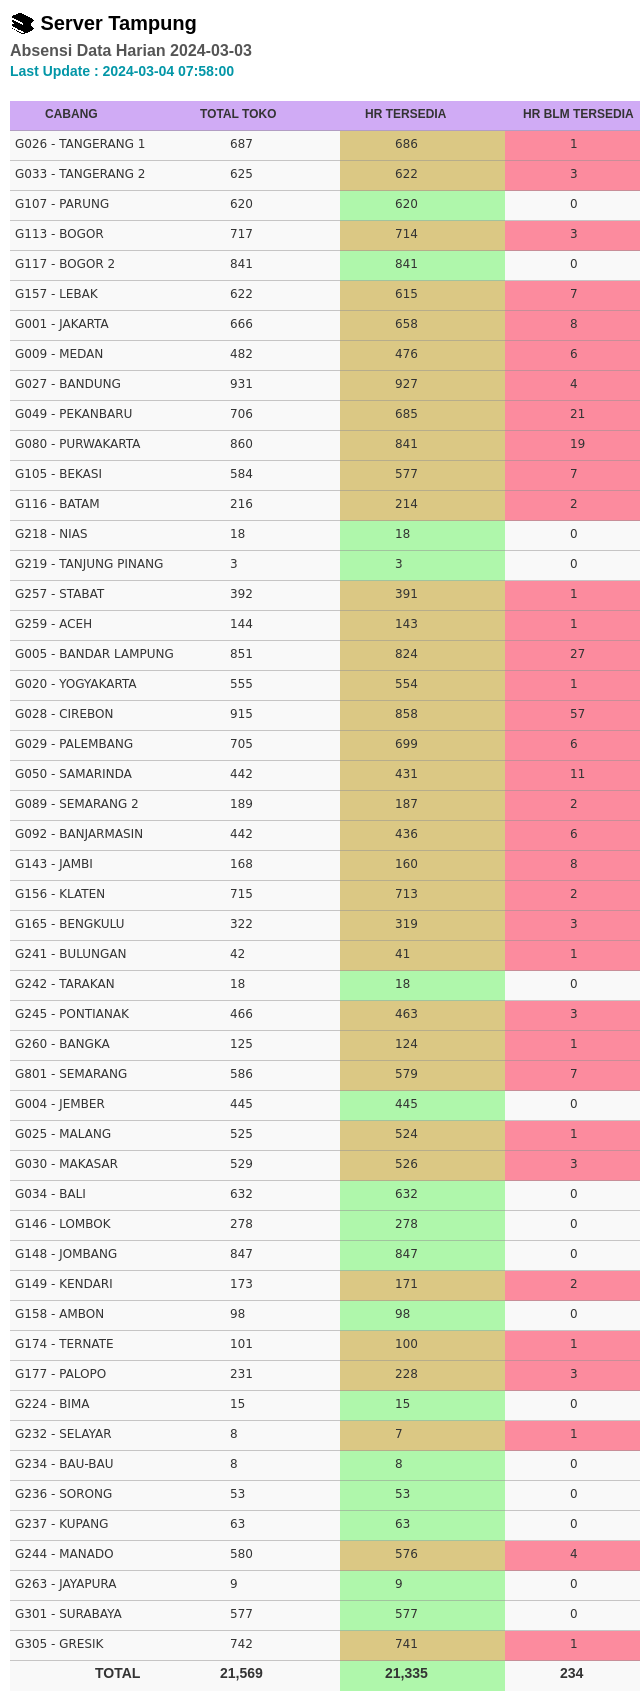
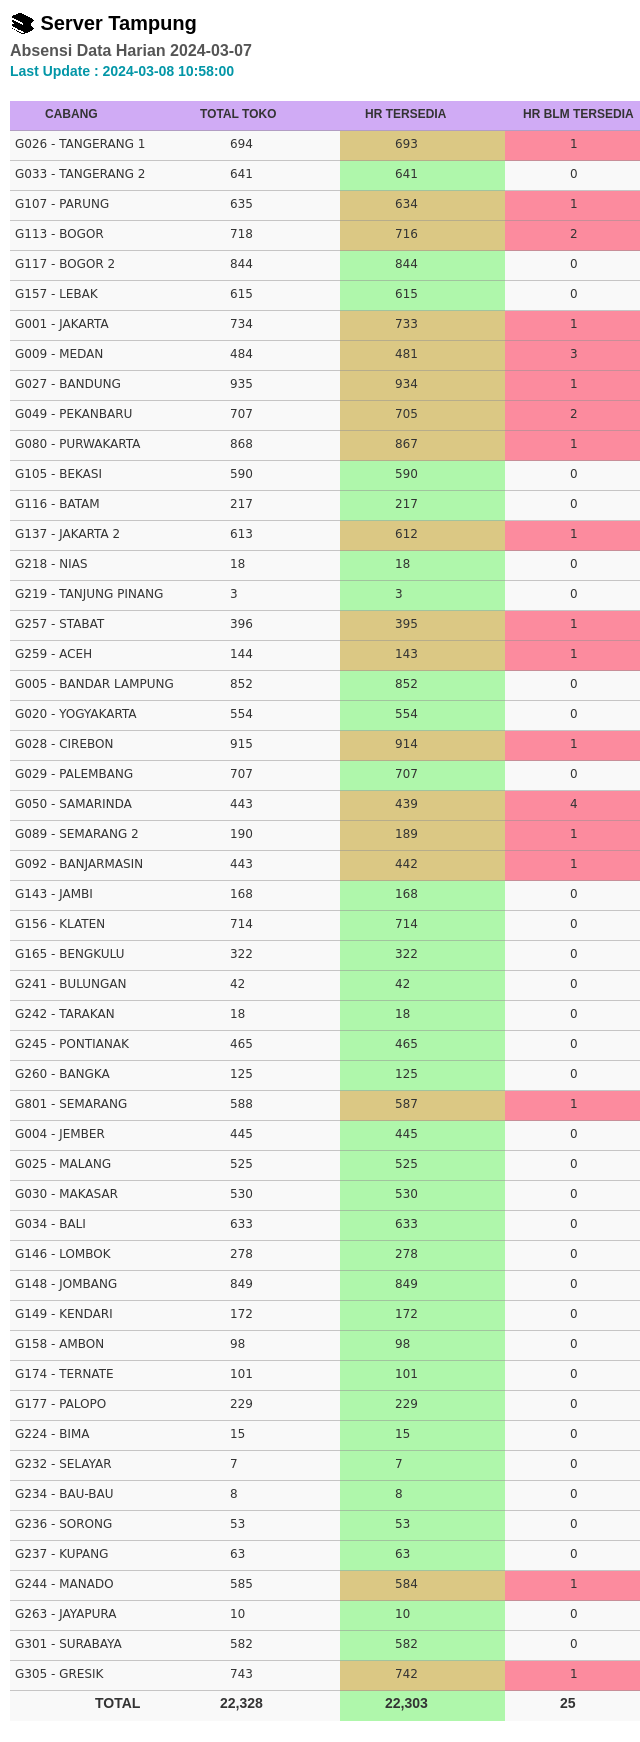
update

diff --git a/models/model.js b/models/model.js
@@ -837,34 +837,34 @@ const HarianTokoLiburCabang = async (kdcab,tanggal) => {
         order by kdam,kdas,toko;`
         const belum = await conn_ho.query(queryx)
         
-        // const detail = belum.map( (r) =>{
-        //     return `'${r.toko}'`
-        // }).toString()
+        return belum
 
-        // const a = belum.map(v => Object.assign({}, v));
+    } catch (e) {  
+        console.log(e)
+        return "Gagal"
+    }
+}
 
-        // const keterquery = `select toko as kdtk,SUBSTRING_INDEX(SUBSTRING_INDEX(\`log\`, '|', 1), '.',-1) as keterangan from temp_cek_clos_toko where tanggal='${tanggal}' and toko in(${detail})`
+
+const HarianTokoLiburCabang2 = async (kdcab,tanggal,filter) => { 
+    try {
+        const queryx = `select 
+        a.toko,a.nama,a.kdam,a.kdas, '-' as keterangan
+        from
+        m_toko_libur_acuan a
+        left join
+        posrealtime_base.toko_extended b on concat(a.toko,a.kdcab) = concat(b.kodetoko,b.kodegudang)
+        left join
+        m_abs_harian_file c on a.toko = c.kdtk and a.tanggal = c.tanggal_harian
+        where
+        a.recid=''
+        and a.kdcab='${kdcab}'
+        and a.tanggal = '${tanggal}'
+        and c.nama_file is null
+        ${filter}
+        order by kdam,kdas,toko;`
+        const belum = await conn_ho.query(queryx)
         
-        // const keterangan  = await conn_any.zconn("192.168.131.50","edp1","abcd@1234","management_co", 3306, { sql: keterquery })
-        
-        // if(keterangan != "error"){ 
-            
-        //     const b = keterangan.map(v => Object.assign({}, v));
-    
-        //     const mergeById = (a1, a2) =>
-        //         a1.map(itm => (
-        //                 {
-        //                     ...itm,
-        //                     ...a2.find((item) => (item.kdtk === itm.toko) && item)
-                            
-        //                 }
-        //             )
-        //         )
-        
-        //     detailbelum = mergeById(a, b)  
-        // }else{
-        //     detailbelum = a
-        // }
         return belum
 
     } catch (e) {  
@@ -898,6 +898,7 @@ const cekHarianToko = async (kdtk,tanggal) => {
 
 const HarianTokoLiburCabangAm = async (kdcab,yesterday) => { 
     try {
+
         const queryx = `
         select
         am,total,belum,sudah,round((belum/total) * 100,2) as persen_belum,round((sudah/total) * 100,2) as persen_sudah
@@ -918,6 +919,7 @@ const HarianTokoLiburCabangAm = async (kdcab,yesterday) => {
         and a.tanggal = '${yesterday}'
         GROUP BY am) a order by belum desc
         ;`
+
         const rows = await conn_ho.query(queryx)
         
         return rows
@@ -927,26 +929,96 @@ const HarianTokoLiburCabangAm = async (kdcab,yesterday) => {
     }
 }
 
+
+const HarianTokoLiburCabangAm2 = async (kdcab,yesterday,filter) => { 
+    try {
+
+        const queryx = `
+        select
+        am,total,belum,sudah,round((belum/total) * 100,2) as persen_belum,round((sudah/total) * 100,2) as persen_sudah
+        from (
+            select
+                if(left(substr(b.amgr_name,12,10),4) ='cant','Vacant', substr(b.amgr_name,12,10)) as am,COUNT(*) AS total,
+                sum(if(nama_file is null,1,0)) as belum,
+                sum(if(nama_file is not null,1,0)) as sudah
+            from
+                m_toko_libur_acuan a
+            left join
+                posrealtime_base.toko_extended b on concat(a.toko,a.kdcab) = concat(b.kodetoko,b.kodegudang)
+            left join
+                m_abs_harian_file c on a.toko = c.kdtk and a.tanggal = c.tanggal_harian
+            where
+                a.recid=''
+                and a.kdcab='${kdcab}'
+                and a.tanggal = '${yesterday}'
+                ${filter}
+            GROUP BY am
+        ) a order by belum desc
+        ;`
+        
+        const rows = await conn_ho.query(queryx)
+        
+        return rows
+
+    } catch (e) { 
+        return "Gagal"
+    }
+}
+
+
 const HarianTokoLiburCabangAmFooter = async (kdcab,yesterday) => { 
     try {
         const queryx = `
         select
         total,belum,sudah,round((belum/total) * 100,2) as persen_belum,round((sudah/total) * 100,2) as persen_sudah
-from(
+        from(
+            select
+                COUNT(*) AS total,
+                sum(if(nama_file is null,1,0)) as belum,
+                sum(if(nama_file is not null,1,0)) as sudah
+            from
+                m_toko_libur_acuan a
+            left join
+                posrealtime_base.toko_extended b on concat(a.toko,a.kdcab) = concat(b.kodetoko,b.kodegudang)
+            left join
+                m_abs_harian_file c on a.toko = c.kdtk and a.tanggal = c.tanggal_harian
+            where
+            a.recid=''
+            and a.tanggal='${yesterday}'
+            and a.kdcab='${kdcab}'
+        ) a
+        ;`
+        const rows = await conn_ho.query(queryx)
+        
+        return rows
+
+    } catch (e) { 
+        return "Gagal"
+    }
+}
+
+const HarianTokoLiburCabangAmFooter2 = async (kdcab,yesterday,filter) => { 
+    try {
+        const queryx = `
         select
-        COUNT(*) AS total,
-        sum(if(nama_file is null,1,0)) as belum,
-        sum(if(nama_file is not null,1,0)) as sudah
-        from
-        m_toko_libur_acuan a
-        left join
-        posrealtime_base.toko_extended b on concat(a.toko,a.kdcab) = concat(b.kodetoko,b.kodegudang)
-        left join
-        m_abs_harian_file c on a.toko = c.kdtk and a.tanggal = c.tanggal_harian
-        where
-        a.recid=''
-        and a.tanggal='${yesterday}'
-        and a.kdcab='${kdcab}') a
+        total,belum,sudah,round((belum/total) * 100,2) as persen_belum,round((sudah/total) * 100,2) as persen_sudah
+        from(
+            select
+                COUNT(*) AS total,
+                sum(if(nama_file is null,1,0)) as belum,
+                sum(if(nama_file is not null,1,0)) as sudah
+            from
+                m_toko_libur_acuan a
+            left join
+                posrealtime_base.toko_extended b on concat(a.toko,a.kdcab) = concat(b.kodetoko,b.kodegudang)
+            left join
+                m_abs_harian_file c on a.toko = c.kdtk and a.tanggal = c.tanggal_harian
+            where
+            a.recid=''
+            and a.tanggal='${yesterday}'
+            and a.kdcab='${kdcab}'
+            ${filter}
+        ) a
         ;`
         const rows = await conn_ho.query(queryx)
         
@@ -1150,5 +1222,7 @@ module.exports = {
     HarianTokoLibur,HarianTokoLiburCabang,DataPbHoldEDP,AkunCabang,DataPbHoldCabang,
     TeruskanPB,HoldPB,cekCabang,AkunCabangOto,updateDataOto,
     HarianTokoLiburCabangAm,HarianTokoLiburCabangAmFooter,updRecid2,HitungRekapHold,getBM,
-    getWT,dataTokoWT,insertHarianJam9, getSB,cekHarianToko,absenPbbh,ServerPbroReg4,coResolved
+    getWT,dataTokoWT,insertHarianJam9, getSB,cekHarianToko,absenPbbh,ServerPbroReg4,coResolved,
+    HarianTokoLiburCabangAm2,
+    HarianTokoLiburCabangAmFooter2,HarianTokoLiburCabang2
 }

diff --git a/controllers/controller.js b/controllers/controller.js
@@ -1203,7 +1203,7 @@ const HarianTokoLibur = async () => {
             masuk += parseInt(r.sudah); 
             belum += parseInt(r.belum); 
         })
-        const header = `📚 *Server Tampung*\n*Absensi Data Harian Toko Libur ${today}*\n\n`
+        const header = `📚 *Server Tampung*\n*Absensi Data Harian ${today}\nToko Libur*\n\n`
         const header2 = `*Kdcab | Toko Aktif | Sudah Masuk | Belum Masuk | %* \n`
         const footer = `*Total | ${toko_aktif} | ${masuk} | ${belum} | ${Number(((belum)/toko_aktif * 100).toFixed(2))}%*`
 
@@ -1249,19 +1249,11 @@ const HarianTokoLiburCabang = async (kdcab) => {
             no_am++;
         })
 
-        const data = await Models.HarianTokoLiburCabang(kdcab,today)
-        // for (let i = 0; i < data.length; i++) {
-        //     if (i > 0 && data[i].kdam !== data[i-1].kdam) {
-        //         tampil_data.push("\n*AM | AS | Nama Toko*");
-        //     } else {
-        //         tampil_data.push(`${data[i].kdam} | ${data[i].kdas} | _${data[i].toko}-${data[i].nama}_`)
-        //     }
-        //   }
-        // console.log(newArray)
+        const data = await Models.HarianTokoLiburCabang(kdcab,today) 
         data.map( async (r)=>{
             tampil_data.push(`${r.kdam} | ${r.kdas} | ${r.toko}-${r.nama}`)
         })
-        const header = `📚 *Server Tampung*\n*Absensi Data Harian Toko Libur ${today}*\nCabang: ${kdcab.toUpperCase()}\n\n`
+        const header = `📚 *Server Tampung*\n*Absensi Data Harian ${today}\nToko Libur*\nCabang: ${kdcab.toUpperCase()}\n\n`
         const header_am = `*No | AM | Total | Sudah Masuk | % | Belum Masuk| %* \n`
         const header2 = `_Detail Toko Data Harian Belum Terkirim ke Server Tampung_\n\n*AM | AS | Nama Toko*\n`
 
@@ -1274,6 +1266,65 @@ const HarianTokoLiburCabang = async (kdcab) => {
     }
 }
 
+const HarianTokoLiburCabang2 = async (kdcab) => {
+    try {
+       
+        var today = ""
+        var now = new Date();
+        const jam = dayjs(now).format("HH")
+        const sekarang = dayjs(now).format("YY-MM-DD HH:mm")
+        if(jam < 14 ){
+            var date =  new Date()
+            var yesterday = date.setDate(date.getDate()-1);
+            today = dayjs(yesterday).format("YYYY-MM-DD")
+        }else{
+            var yesterday = now
+            today = dayjs(now).format("YYYY-MM-DD")
+        }
+
+        var no = 1;
+        var no_am = 1; 
+        var tampil_data = []
+        var tampil_am = []
+        var tampil_am_footer = []
+        
+        let filter = "" 
+        if(parseInt(dayjs().format("H")) === "20"){
+            filter = `and jam = '21:00'`
+        }else if(parseInt(dayjs().format("H")) === "21"){
+            filter = `and jam in('21:00','22:00')`
+        }else{
+            filter =""
+        }
+
+        const data_am = await Models.HarianTokoLiburCabangAm2(kdcab,today,filter)
+        data_am.map( async (r_am)=>{
+            tampil_am.push(`${no_am} | ${r_am.am} | ${r_am.total} | ${r_am.sudah} | ${r_am.persen_sudah}% | ${r_am.belum}| ${r_am.persen_belum}% `)
+            no_am++;
+        })
+
+        const data_am_footer = await Models.HarianTokoLiburCabangAmFooter2(kdcab,today,filter)
+        data_am_footer.map( async (r_am_footer)=>{
+            tampil_am_footer.push(`  *Grand Total | ${r_am_footer.total} | ${r_am_footer.sudah} | ${r_am_footer.persen_sudah}% | ${r_am_footer.belum}| ${r_am_footer.persen_belum}%*`)
+            no_am++;
+        })
+
+        const data = await Models.HarianTokoLiburCabang2(kdcab,today,filter) 
+        data.map( async (r)=>{
+            tampil_data.push(`${r.kdam} | ${r.kdas} | ${r.toko}-${r.nama}`)
+        })
+        const header = `📚 *Server Tampung*\n*Absensi Data Harian ${today}\nToko Libur*\nCabang: ${kdcab.toUpperCase()}\n\n`
+        const header_am = `*No | AM | Total | Sudah Masuk | % | Belum Masuk| %* \n`
+        const header2 = `_Detail Toko Data Harian Belum Terkirim ke Server Tampung_\n\n*AM | AS | Nama Toko*\n`
+
+        const respons = `${header}${header_am}${tampil_am.join("\n")}\n${tampil_am_footer}\n\n${header2}${tampil_data.join("\n")}\n\n_Last Update: ${sekarang}_`
+        return respons
+
+    } catch (e) {
+        
+        return "🛠 Server sedang dalam perbaikan, Mohon hubungi Administrator Anda!!" 
+    }
+}
 
  
 const cekHarianToko = async (kdtk) => {
@@ -1505,6 +1556,6 @@ module.exports = {
     cekCabang,AkunCabangOto,
     updateDataOto,updRecid2,HitungRekapHold,getBM,
     DownloadWT,dataTokoWT,DataHarianLebih9,DownloadSB,absenPbbh,HarianTampung_new_allcabangImage,
-    ServerPbroReg4
+    ServerPbroReg4,HarianTokoLiburCabang2
   }
  

diff --git a/server.js b/server.js
@@ -19,6 +19,7 @@ var taskHarianIrisAllImage = true
 var taskPBHOLDEDP = true
 var taskPBHOLDCabang = true
 var taskOto = true
+var taskTokoLibur = true
 var taskExportWT = true
 var taskPbbhTampung = true
 var taskHarianTampungAllImage = true
@@ -1092,6 +1093,27 @@ async function start(client) {
                         console.log("[END] ERROR !!! Reminder Toko Opening:: " + dayjs().format("YYYY-MM-DD HH:mm:ss") )
                         taskOpening = true
                         console.log('Reminder Toko Opening::' + err);
+                }
+            } 
+        });
+
+        /* =================================================*/
+        // Reminder Absensi Toko Libur
+        /* =================================================*/
+        cron.schedule('*/15 * * * *', async() => { 
+        //( async() => {    
+            if (taskTokoLibur && (dayjs().format("YYYY-MM-DD") === "2024-03-10") && (parseInt(dayjs().format("H")) >= 20)) { 
+                taskTokoLibur = false
+                    console.log("[START] Reminder Toko Libur: " + dayjs().format("YYYY-MM-DD HH:mm:ss") )
+                    try {       
+                        const res4 = await Controller.HarianTokoLiburCabang2("G034")
+                        await client.sendText(group_edpreg_mgrspv, res4);
+                        console.log("[END] Reminder Toko Libur:: " + dayjs().format("YYYY-MM-DD HH:mm:ss") )
+                        taskTokoLibur = true
+                } catch (err) {
+                        console.log("[END] ERROR !!! Reminder Toko Libur:: " + dayjs().format("YYYY-MM-DD HH:mm:ss") )
+                        taskTokoLibur = true
+                        console.log('Reminder Toko Libur::' + err);
                 }
             } 
         });
